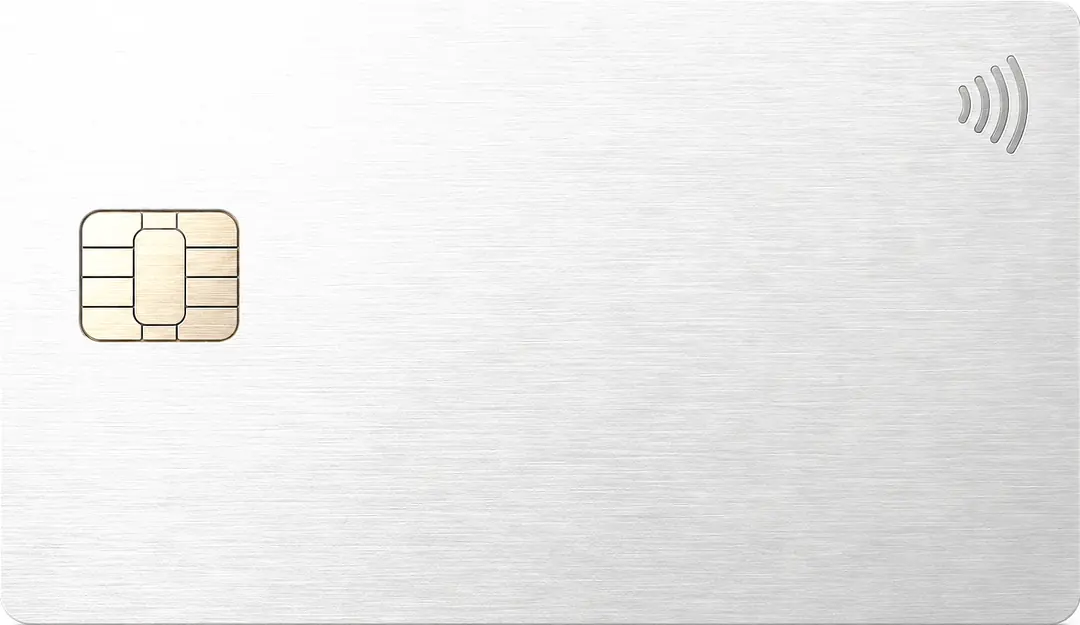
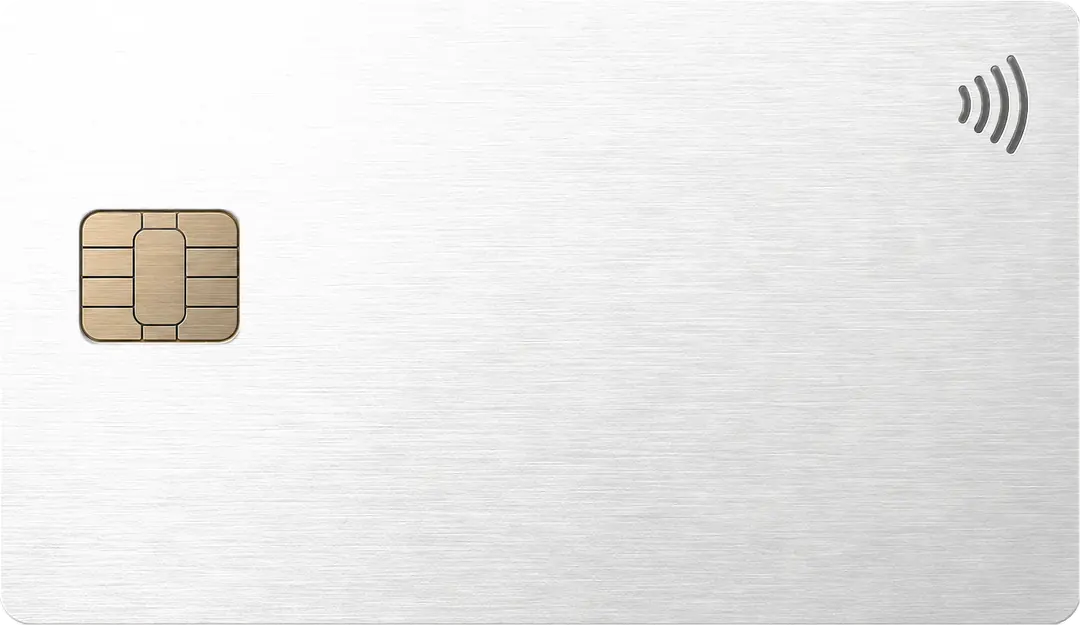
Tally polish: gold chip and engraved glyph kept in every palette, transparent card corners, proportional figures, Due soon list, toast band clear of the form
The card render keeps the chip's own colour (no face gain), deepens the contactless grooves inside the tint mask and has transparent rounded corners; the clip radius follows the card's width. Figures are proportional lining throughout, since the face's tabular comma and full stop are set wide. The wide left column gains a three-row Due soon list; the Limits form is tighter and the stage keeps a band for the toast.

Changed region(s): [[0.0611, 0.3344, 0.2444, 0.5776], [0.8861, 0.0912, 0.9778, 0.2432]]

diff --git a/src/components/palette/examples/Tally.css b/src/components/palette/examples/Tally.css
@@ -25,13 +25,12 @@
   font-family:'PV Schibsted','Switzer Fallback',system-ui,sans-serif;
   font-size:15px;
   line-height:1.5;
-  /* Lining figures at rest; the lists below switch their columns to tabular. */
-  font-variant-numeric:lining-nums;
+  /* Proportional lining figures throughout: this face sets its tabular comma and full stop wide ("$1 ,600"), so the right-aligned amount columns line up on their two-decimal endings instead. */
+  font-variant-numeric:lining-nums proportional-nums;
 }
 .ty :where(h3,p,ul,b,small){margin:0;padding:0;font:inherit}
 .ty :where(ul){list-style:none}
 .ty :where(*,*::before,*::after){box-sizing:border-box}
-.ty-amt,.ty-money,.ty-share,.ty-left-amt{font-variant-numeric:lining-nums tabular-nums}
 
 /* ── Header: wordmark, nav and the account's avatar ── */
 .ty-head{display:flex;align-items:center;gap:var(--s-7);flex:none;height:64px;padding:0 var(--s-7);border-bottom:1px solid var(--pv-border)}
@@ -48,8 +47,9 @@
 .ty-label{font-size:13px;color:var(--pv-muted)}
 
 /* ── The card: the render, the type on it and a 3px edge line beneath ── */
-.ty-cardwrap{width:360px;max-width:100%}
-.ty-cardface{width:100%;border-radius:10px}
+/* The render's own corner radius is 31 of its 1428px, so 2.17% of the card's width; the wrapper is a size container so the clip, the edge ring and the edge line below all follow the card's width. */
+.ty-cardwrap{container-type:inline-size;width:360px;max-width:100%}
+.ty-cardface{width:100%;border-radius:2.17cqw}
 /* The edge sits over the render so a pale card still has a visible outline. */
 .ty-cardface::after{content:'';position:absolute;inset:0;border-radius:inherit;box-shadow:inset 0 0 0 1px var(--ty-card-edge);pointer-events:none}
 .ty-cardface.is-frozen{filter:saturate(.4)}
@@ -60,7 +60,7 @@
 .ty-network{position:absolute;right:6.7%;bottom:7%;display:flex}
 .ty-network i{display:block;width:28px;height:28px;border-radius:50%;background:color-mix(in srgb,var(--ty-card-ink) 60%,transparent)}
 .ty-network i+i{margin-left:-11px}
-.ty-edge{display:block;height:3px;margin:0 10px;border-radius:0 0 3px 3px;background:var(--pv-deep)}
+.ty-edge{display:block;height:3px;margin:0 2.17cqw;border-radius:0 0 3px 3px;background:var(--pv-deep)}
 
 /* ── Actions: three text buttons divided by hairlines ── */
 .ty-actions{display:grid;grid-template-columns:repeat(3,minmax(0,1fr));border-block:1px solid var(--pv-border)}
@@ -73,6 +73,8 @@
 .ty-balance{margin-top:var(--s-1);font-size:28px;font-weight:500;line-height:1.15;letter-spacing:-.02em}
 .ty-frozen{display:flex;align-items:flex-start;gap:var(--s-2);margin-bottom:var(--s-5);font-size:13px;font-weight:500;line-height:1.5;color:var(--pv-warning-ink)}
 .ty-frozen .ty-ico{margin-top:2px}
+/* Due soon sits under the balance in the wide layout, in the transaction rows' own shape. The mid and narrow layouts leave it out: the Upcoming tab covers it there. */
+.ty-due{margin-top:var(--s-3)}
 
 /* ── Tabs ── */
 .ty-tabs{display:flex;gap:var(--s-5);border-bottom:1px solid var(--pv-border)}
@@ -82,7 +84,7 @@
 
 /* ── The budget: the figure, then one 8px bar with the pace tick ── */
 .ty-budget{padding-top:var(--s-5)}
-.ty-fig{margin-top:var(--s-1);font-size:44px;font-weight:500;line-height:1.1;letter-spacing:-.03em;font-variant-numeric:lining-nums proportional-nums}
+.ty-fig{margin-top:var(--s-1);font-size:44px;font-weight:500;line-height:1.1;letter-spacing:-.03em}
 .ty-of{margin-top:var(--s-1);font-size:15px;color:var(--pv-muted)}
 .ty-bar{position:relative;height:8px;margin-top:var(--s-5);border-radius:4px;background:var(--pv-raised)}
 .ty-spent{position:absolute;inset:0 auto 0 0;border-radius:4px;background:var(--pv-primary);box-shadow:inset 0 0 0 1px var(--pv-pborder)}
@@ -119,7 +121,7 @@
 .ty-tx[data-tone="info"] :is(.ty-note,.ty-money){color:var(--pv-info-ink)}
 
 /* ── Limits: the Limits action open in the right column, with the form states a card app needs ── */
-.ty-limits{display:flex;flex-direction:column;gap:var(--s-5);max-width:520px;min-width:0}
+.ty-limits{display:flex;flex-direction:column;gap:var(--s-4);max-width:520px;min-width:0}
 .ty-limits-h{font-size:28px;font-weight:500;line-height:1.15;letter-spacing:-.02em}
 .ty-limits-lead{margin-top:var(--s-1);font-size:15px;color:var(--pv-muted)}
 .ty-field{display:flex;flex-direction:column;gap:var(--s-2)}
@@ -127,14 +129,14 @@
 .ty-input{
   display:flex;align-items:center;height:44px;padding:0 var(--s-4);
   background:var(--pv-surface);border:1px solid var(--pv-border-strong);border-radius:8px;
-  font-size:15px;color:var(--pv-text);font-variant-numeric:lining-nums tabular-nums;
+  font-size:15px;color:var(--pv-text);
 }
 /* Focus: a 2px ring set off the field by 2px of the page's own colour. */
 .ty-input.is-focus{border-color:var(--ty-ring);box-shadow:0 0 0 2px var(--pv-canvas),0 0 0 4px var(--ty-ring)}
 .ty-input.is-error{border-color:var(--pv-error)}
 .ty-err{display:flex;align-items:flex-start;gap:var(--s-2);font-size:13px;line-height:1.5;color:var(--pv-error-ink)}
 .ty-err .ty-ico{margin-top:2px}
-.ty-switch{display:flex;align-items:flex-start;justify-content:space-between;gap:var(--s-4);padding-top:var(--s-5);border-top:1px solid var(--pv-border)}
+.ty-switch{display:flex;align-items:flex-start;justify-content:space-between;gap:var(--s-4);padding-top:var(--s-4);border-top:1px solid var(--pv-border)}
 .ty-switch-t{display:flex;flex-direction:column;gap:var(--s-1);min-width:0}
 .ty-help{font-size:13px;line-height:1.5;color:var(--pv-muted)}
 .ty-help--info{color:var(--pv-info-ink)}
@@ -146,7 +148,7 @@
 .ty-field-l.is-disabled{color:var(--pv-disabled)}
 .ty-toggle.is-disabled{background:transparent;border-color:var(--pv-border)}
 .ty-toggle.is-disabled>i{background:var(--pv-disabled)}
-.ty-limits-foot{display:flex;justify-content:flex-end;gap:var(--s-2);padding-top:var(--s-5);border-top:1px solid var(--pv-border)}
+.ty-limits-foot{display:flex;justify-content:flex-end;gap:var(--s-2);padding-top:var(--s-4);border-top:1px solid var(--pv-border)}
 .ty-btn{
   display:inline-flex;align-items:center;justify-content:center;height:40px;padding:0 var(--s-5);
   background:var(--pv-surface);border:1px solid var(--pv-border-strong);border-radius:8px;
@@ -154,7 +156,8 @@
 }
 .ty-btn--primary{background:var(--pv-primary);border-color:var(--pv-pborder);color:var(--pv-on-primary)}
 
-/* The toast rides in a zero-height dock stuck to the bottom of the stage, so it is in view at any scroll. It floats, so it is the one place a shadow is used. */
+/* The toast rides in a zero-height dock stuck to the bottom of the stage, centred on it, so it is in view at any scroll. The Limits state keeps a band under the form (the toast's height plus a margin above and below) so the form's buttons are never under it. It floats, so it is the one place a shadow is used. */
+.ty[data-state="limits"] .ty-body{padding-bottom:calc(44px + var(--s-5) * 2)}
 .ty-dock{position:sticky;bottom:0;z-index:2;flex:none;height:0;pointer-events:none}
 .ty-toast{
   position:absolute;left:50%;bottom:var(--s-5);transform:translateX(-50%);
@@ -173,6 +176,7 @@
   .ty-left{flex-direction:row;align-items:flex-end;gap:var(--s-6)}
   .ty-cardwrap{flex:none;width:320px}
   .ty-side{flex:1}
+  .ty-due{display:none}
   .ty-limits{max-width:none}
 }
 
@@ -182,7 +186,7 @@
   .ty-nav{display:none}
   .ty-avatar{margin-left:auto}
   .ty-body{padding:var(--s-5) var(--s-4) var(--s-8)}
-  .ty-grid{row-gap:var(--s-5)}
+  .ty-grid{row-gap:var(--s-6)}
   .ty-left{flex-direction:column;align-items:stretch;gap:var(--s-5)}
   .ty-cardwrap{width:100%;max-width:none}
   .ty-fig{font-size:36px}

diff --git a/src/components/palette/examples/Tally.jsx b/src/components/palette/examples/Tally.jsx
@@ -12,7 +12,7 @@ import { useMemo } from 'react'
 import Recolour from '../Recolour.jsx'
 import { PREVIEW_ASSETS } from '../../../data/previewAssets.js'
 import {
-  ACCOUNT, ACTIONS, CARD, CATS, FIGURES, FROZEN_LINE, LIMITS, NAV, TABS, TXNS, amountText, tallyVars,
+  ACCOUNT, ACTIONS, CARD, CATS, DUE, FIGURES, FROZEN_LINE, LIMITS, NAV, TABS, TXNS, amountText, tallyVars,
 } from './Tally.data.js'
 import './Tally.css'
 
@@ -98,6 +98,27 @@ function Account({ frozen }) {
       <p className="ty-label" data-role="neutral">{ACCOUNT.name}</p>
       <p className="ty-balance" data-role="neutral">{ACCOUNT.balance}</p>
     </div>
+  )
+}
+
+// The bills due soon: plain neutral rows under the balance, so the wide layout's left column is not empty.
+function Due() {
+  return (
+    <section className="ty-day ty-due" data-role="neutral">
+      <h3 className="ty-dayname">Due soon</h3>
+      <ul>
+        {DUE.map((t) => (
+          <li key={t.who} className="ty-tx">
+            <span className="ty-merchant"><Icon size={18} className="ty-merchant-ico">{MARKS[t.mark]}</Icon></span>
+            <span className="ty-who">
+              <b>{t.who}</b>
+              <small className="ty-note">{t.note}</small>
+            </span>
+            <span className="ty-money">{amountText(t.amount)}</span>
+          </li>
+        ))}
+      </ul>
+    </section>
   )
 }
 
@@ -261,6 +282,7 @@ export default function Tally({ roles, state }) {
             <div className="ty-side">
               <Actions frozen={frozen} open={open} />
               <Account frozen={frozen} />
+              <Due />
             </div>
           </div>
           <div className="ty-right">

diff --git a/src/data/previewAssets.js b/src/data/previewAssets.js
@@ -22,17 +22,17 @@ export const PREVIEW_ASSETS = {
     width: 1428,
     height: 827,
     alt: 'A brushed-metal payment card with a chip and a contactless symbol',
-    // The card's face is the part the palette colours; the chip and the symbol stay as they are.
+    // The card's face is the part the palette colours, grooves of the symbol included, so they stay a dark engraving in any colour; the chip is left out of the mask and stays gold. The corners are transparent.
     recolourable: true,
     mask: 'card-front-mask.png',
     // 16px wide, blurred, as a data URI: the first frame while the file loads.
[2 lines of base64/hex data omitted]
     credit: {
       source: 'Generated',
       author: 'Generated with OpenAI image generation via Codex CLI',
       licence: 'Generated image, made for UIL4B; no person depicted',
       url: '',
-      changes: 'Cropped to the card, brightened so the face reads as a neutral light grey, resized to 640 and 1080 pixels wide, and a mask of the face made from it.',
+      changes: 'Cropped to the card with its corners made transparent, brightened so the face reads as a neutral light grey (the chip keeps its own colour and the contactless grooves are deepened), resized to 640 and 1080 pixels wide, and a mask of the face made from it.',
     },
   },
 }

diff --git a/src/components/palette/examples/Tally.data.js b/src/components/palette/examples/Tally.data.js
@@ -100,6 +100,13 @@ export const TXNS = [
     ],
   },
 ]
+
+// Bills coming out in the next fortnight, shown under the balance in the wide layout.
+export const DUE = [
+  { who: 'Southbank Energy', mark: 'ring', note: 'Electricity · Wed 14 Oct', amount: -142.6 },
+  { who: 'Fibrehome Internet', mark: 'chevron', note: 'Internet · Mon 19 Oct', amount: -89 },
+  { who: 'Greenway Insurance', mark: 'shelf', note: 'Contents cover · Fri 23 Oct', amount: -64.3 },
+]
 export const amountText = (n) => `${n < 0 ? '−' : '+'}${money(Math.abs(n))}`
 
 export const CARD = { last4: '4471' }

diff --git a/public/previews/CREDITS.md b/public/previews/CREDITS.md
@@ -14,7 +14,7 @@ preview's own footer line. Unsplash and CC0 images are credited here only.
 - Author: Generated with OpenAI image generation via Codex CLI
 - Licence: Generated image, made for UIL4B; no person depicted
 - URL: none
-- Changes: Cropped to the card, brightened so the face reads as a neutral light grey, resized to 640 and 1080 pixels wide, and a mask of the face made from it.
+- Changes: Cropped to the card with its corners made transparent, brightened so the face reads as a neutral light grey (the chip keeps its own colour and the contactless grooves are deepened), resized to 640 and 1080 pixels wide, and a mask of the face made from it.
 - Files:
   - `card/card-front-640.avif`
   - `card/card-front-640.webp`
